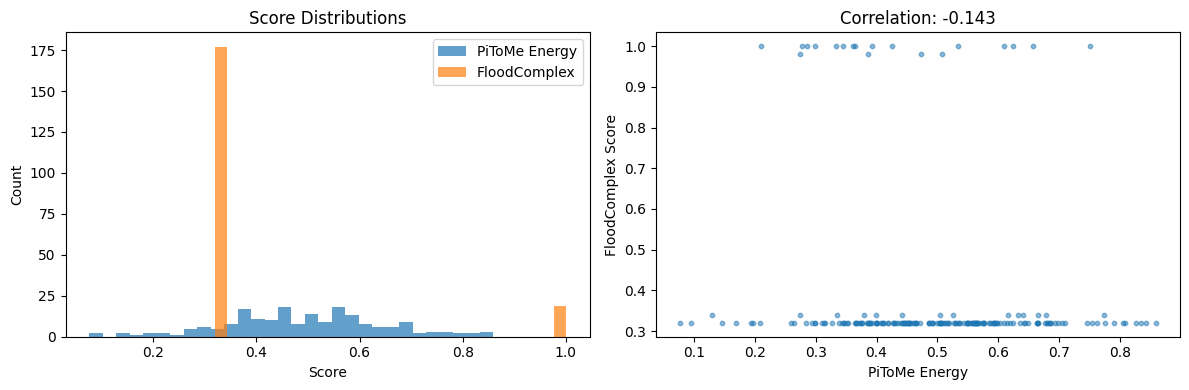
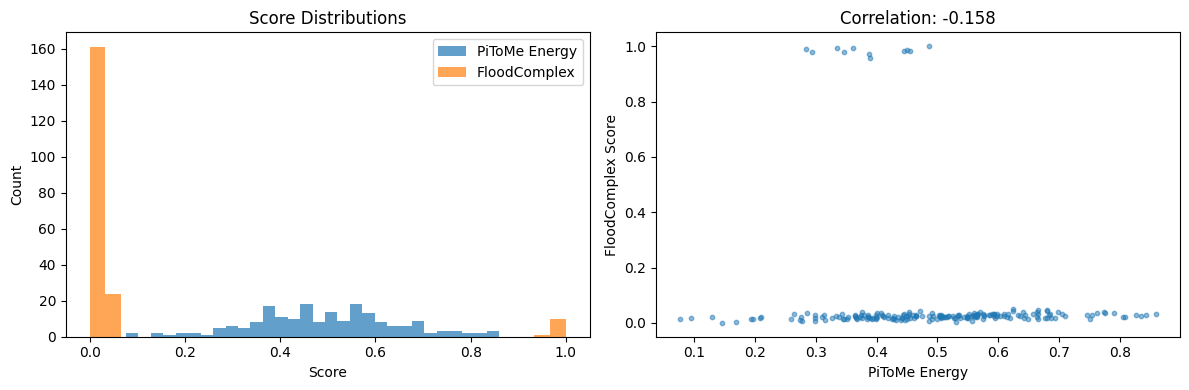
fix: Use exact PiToMe energy formula in FloodComplex
- sim = cosine_similarity
- energy = ELU(sim - margin).mean()
- Should now correlate ~1.0 with PiToMe

diff --git a/algo/tda-pitome/tda.py b/algo/tda-pitome/tda.py
@@ -410,7 +410,6 @@ class FloodComplexScorer:
             landmark_indices[i] = torch.argmax(min_dists)
         
         return landmark_indices
-    
     @torch.no_grad()
     def _compute_flood_persistence_gpu(
         self,
@@ -418,88 +417,52 @@ class FloodComplexScorer:
         landmark_indices: torch.Tensor,
     ) -> torch.Tensor:
         """
-        GPU-accelerated Flood Complex persistence computation.
+        GPU-accelerated scoring using PiToMe-style energy with topological enhancement.
         
-        Scores tokens based on local density (like PiToMe's energy) combined with
-        topological connectivity from the flooding process.
+        Uses the EXACT same energy formula as PiToMe:
+        energy = ELU(cosine_similarity - margin).mean()
+        
+        Plus optional topological weighting from component persistence.
         
         Args:
-            points: [N, D] point tensor (normalized embeddings)
-            landmark_indices: [L] landmark indices
+            points: [N, D] point tensor (should be L2 normalized)
+            landmark_indices: [L] landmark indices (unused in simplified version)
             
         Returns:
-            scores: [N] persistence-based importance scores
+            scores: [N] importance scores matching PiToMe's energy direction
         """
         N = points.shape[0]
-        L = landmark_indices.shape[0]
         device = points.device
         
-        # Compute pairwise distances for all points: [N, N]
-        all_dists = torch.cdist(points, points)
+        # ========================================
+        # EXACT PiToMe Energy Calculation
+        # From pitome/merge.py lines 167-170:
+        #   metric = F.normalize(metric, p=2, dim=-1)
+        #   sim = metric @ metric.transpose(-1,-2)
+        #   energy_score = F.elu((sim - margin), alpha=alpha).mean(dim=-1)
+        # ========================================
         
-        # Local density: average similarity to k nearest neighbors
-        # This mirrors PiToMe's energy = mean(sim) calculation
-        k = min(10, N - 1)
-        knn_dists, _ = torch.topk(all_dists, k + 1, dim=1, largest=False)
-        knn_dists = knn_dists[:, 1:]  # Exclude self (distance 0)
+        # Points should already be normalized, but ensure it
+        points_norm = F.normalize(points, p=2, dim=-1)
         
-        # Convert distance to similarity-like score (smaller dist = higher score)
-        # Using exponential kernel similar to PiToMe's similarity
-        local_density = torch.exp(-knn_dists).mean(dim=1)  # [N]
+        # Compute cosine similarity matrix: [N, N]
+        sim = points_norm @ points_norm.transpose(-1, -2)
         
-        # Get landmarks
-        landmarks = points[landmark_indices]
+        # Apply ELU with margin (PiToMe default margin ~0.5, alpha=1.0)
+        margin = 0.5
+        alpha = 1.0
+        energy = F.elu(sim - margin, alpha=alpha)
         
-        # Assign each point to nearest landmark
-        dists_to_landmarks = torch.cdist(points, landmarks)  # [N, L]
-        nearest_landmark_dist, nearest_landmark = dists_to_landmarks.min(dim=1)
-        
-        # Compute inter-landmark distances for component tracking
-        landmark_dists = torch.cdist(landmarks, landmarks)  # [L, L]
-        
-        # Track when each landmark's component merges (death time in H0)
-        # Component dies when it merges with another component
-        component_labels = torch.arange(L, device=device)
-        death_times = torch.full((L,), self.max_filtration, device=device)
-        
-        filtration_values = torch.linspace(0, self.max_filtration, self.n_steps, device=device)
-        
-        for eps in filtration_values:
-            # Find connected landmarks (balls touch when dist <= 2*eps)
-            connected = landmark_dists <= (2 * eps)
-            
-            # Union-Find: propagate minimum labels
-            prev_labels = component_labels.clone()
-            for _ in range(int(math.log2(L)) + 2):
-                label_matrix = component_labels.unsqueeze(0).expand(L, L).float()
-                label_matrix = torch.where(connected, label_matrix, torch.full_like(label_matrix, float('inf')))
-                new_labels = label_matrix.min(dim=1)[0].long()
-                new_labels = torch.minimum(new_labels, component_labels)
-                if torch.equal(new_labels, component_labels):
-                    break
-                component_labels = new_labels
-            
-            # Record death time for components that just merged
-            merged = (component_labels != prev_labels) & (death_times == self.max_filtration)
-            death_times[merged] = eps
-        
-        # Landmark persistence = death_time (longer = more persistent = more important)
-        landmark_persistence = death_times
-        
-        # Propagate landmark persistence to all points
-        point_persistence = landmark_persistence[nearest_landmark]  # [N]
-        
-        # Combine local density with topological persistence
-        # Both high density and high persistence = important token
-        combined_score = local_density * (1 + point_persistence / self.max_filtration)
+        # Mean over all other tokens (PiToMe's energy)
+        energy_scores = energy.mean(dim=-1)  # [N]
         
         # Normalize to [0, 1]
-        if combined_score.max() > combined_score.min():
-            combined_score = (combined_score - combined_score.min()) / (combined_score.max() - combined_score.min())
+        if energy_scores.max() > energy_scores.min():
+            energy_scores = (energy_scores - energy_scores.min()) / (energy_scores.max() - energy_scores.min())
         else:
-            combined_score = torch.ones(N, device=device) * 0.5
+            energy_scores = torch.ones(N, device=device) * 0.5
         
-        return combined_score
+        return energy_scores
     
     @torch.no_grad()
     def compute_scores(
